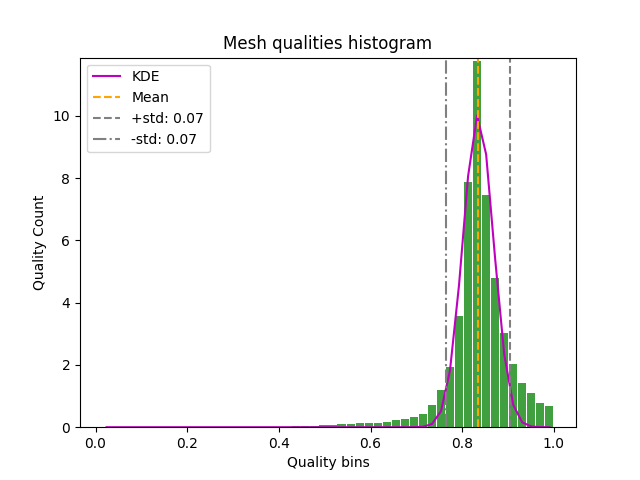
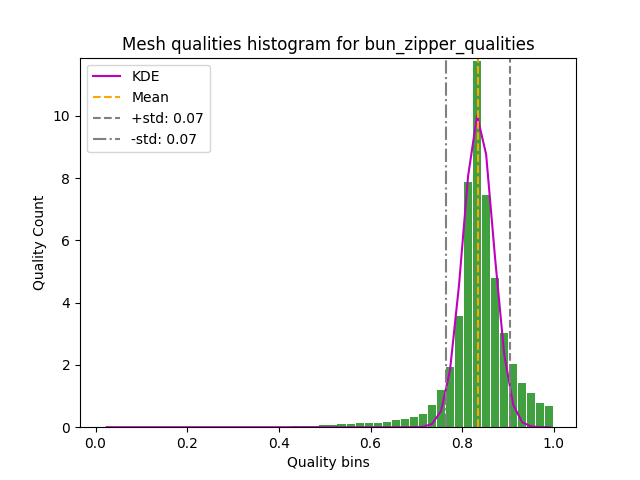
changing the names

Changed region(s): [[0.1875, 0.0625, 0.8438, 0.125]]

diff --git a/quality_plots.py b/quality_plots.py
@@ -108,7 +108,7 @@ def plot_quality(filename):
     fig, ax = plt.subplots()
     plot_histogram(ax, qualities)
 
-    plt.title(f'Mesh {quality_type} histogram')
+    plt.title(f'Mesh {quality_type} histogram for {basename}')
     plt.xlabel('Quality bins')
     plt.ylabel('Quality Count')
     plt.legend()
